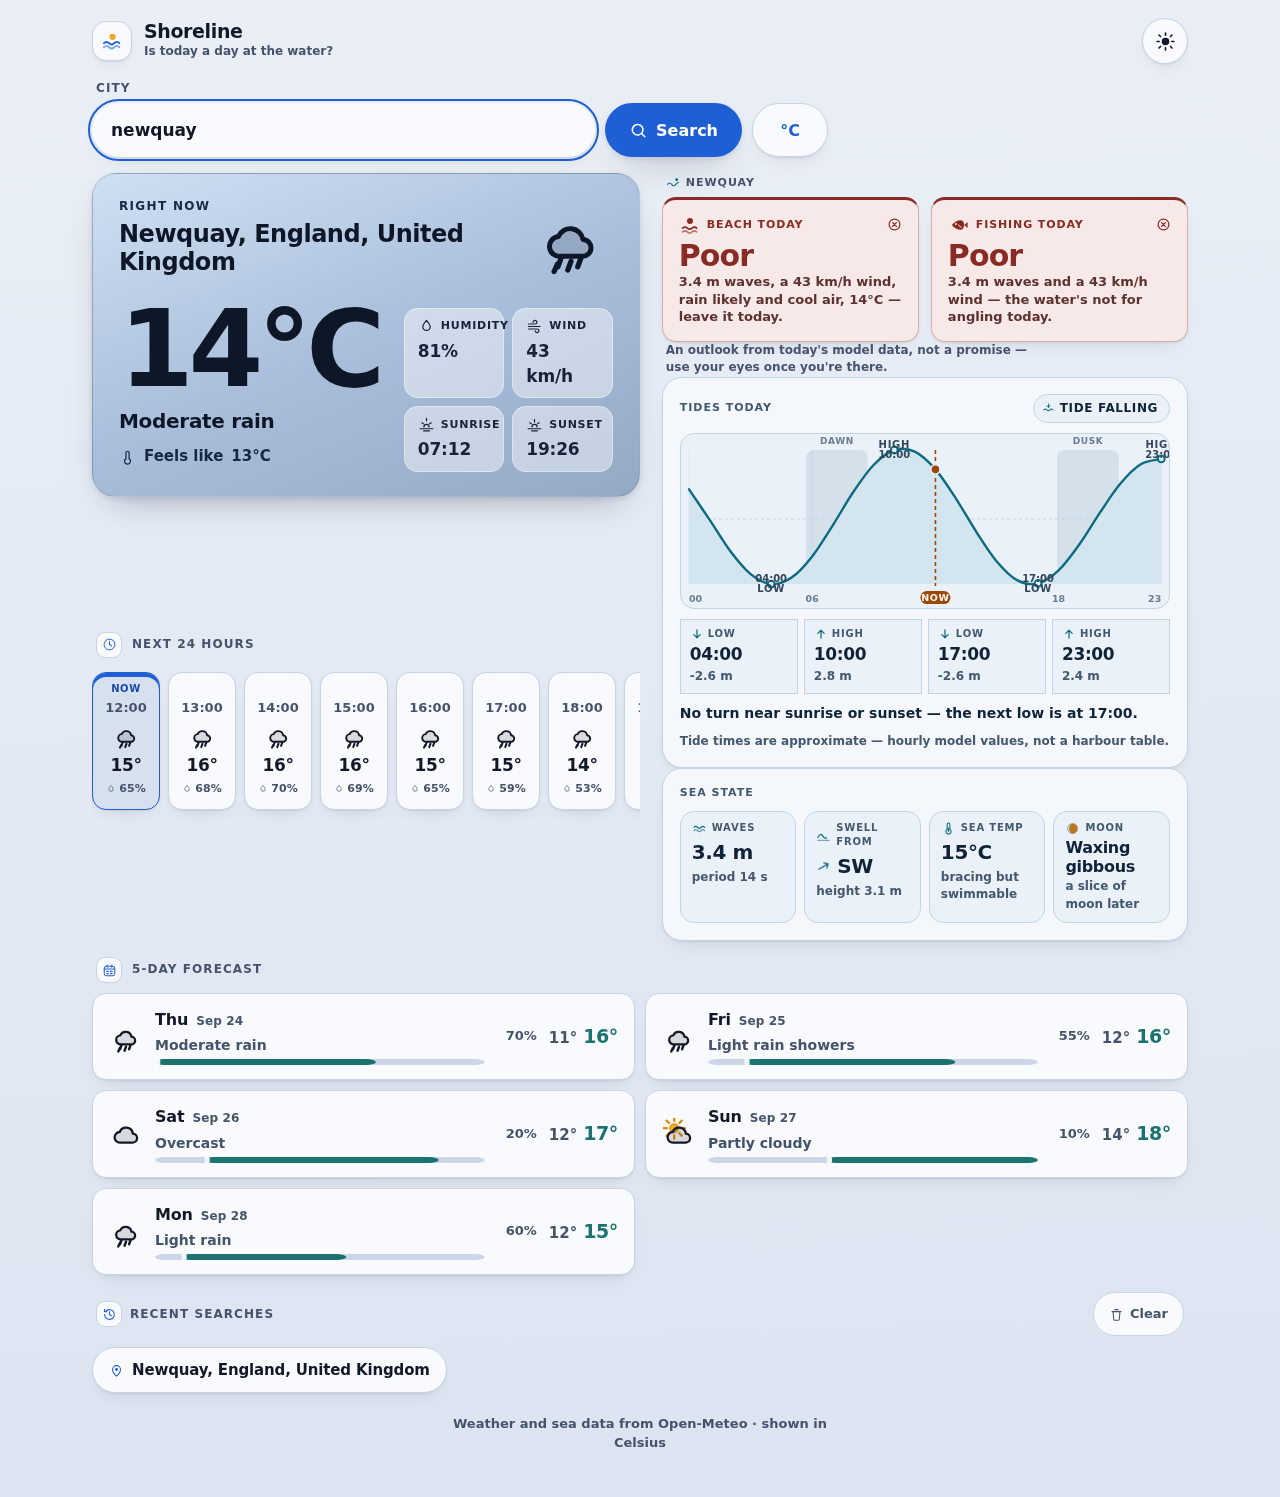
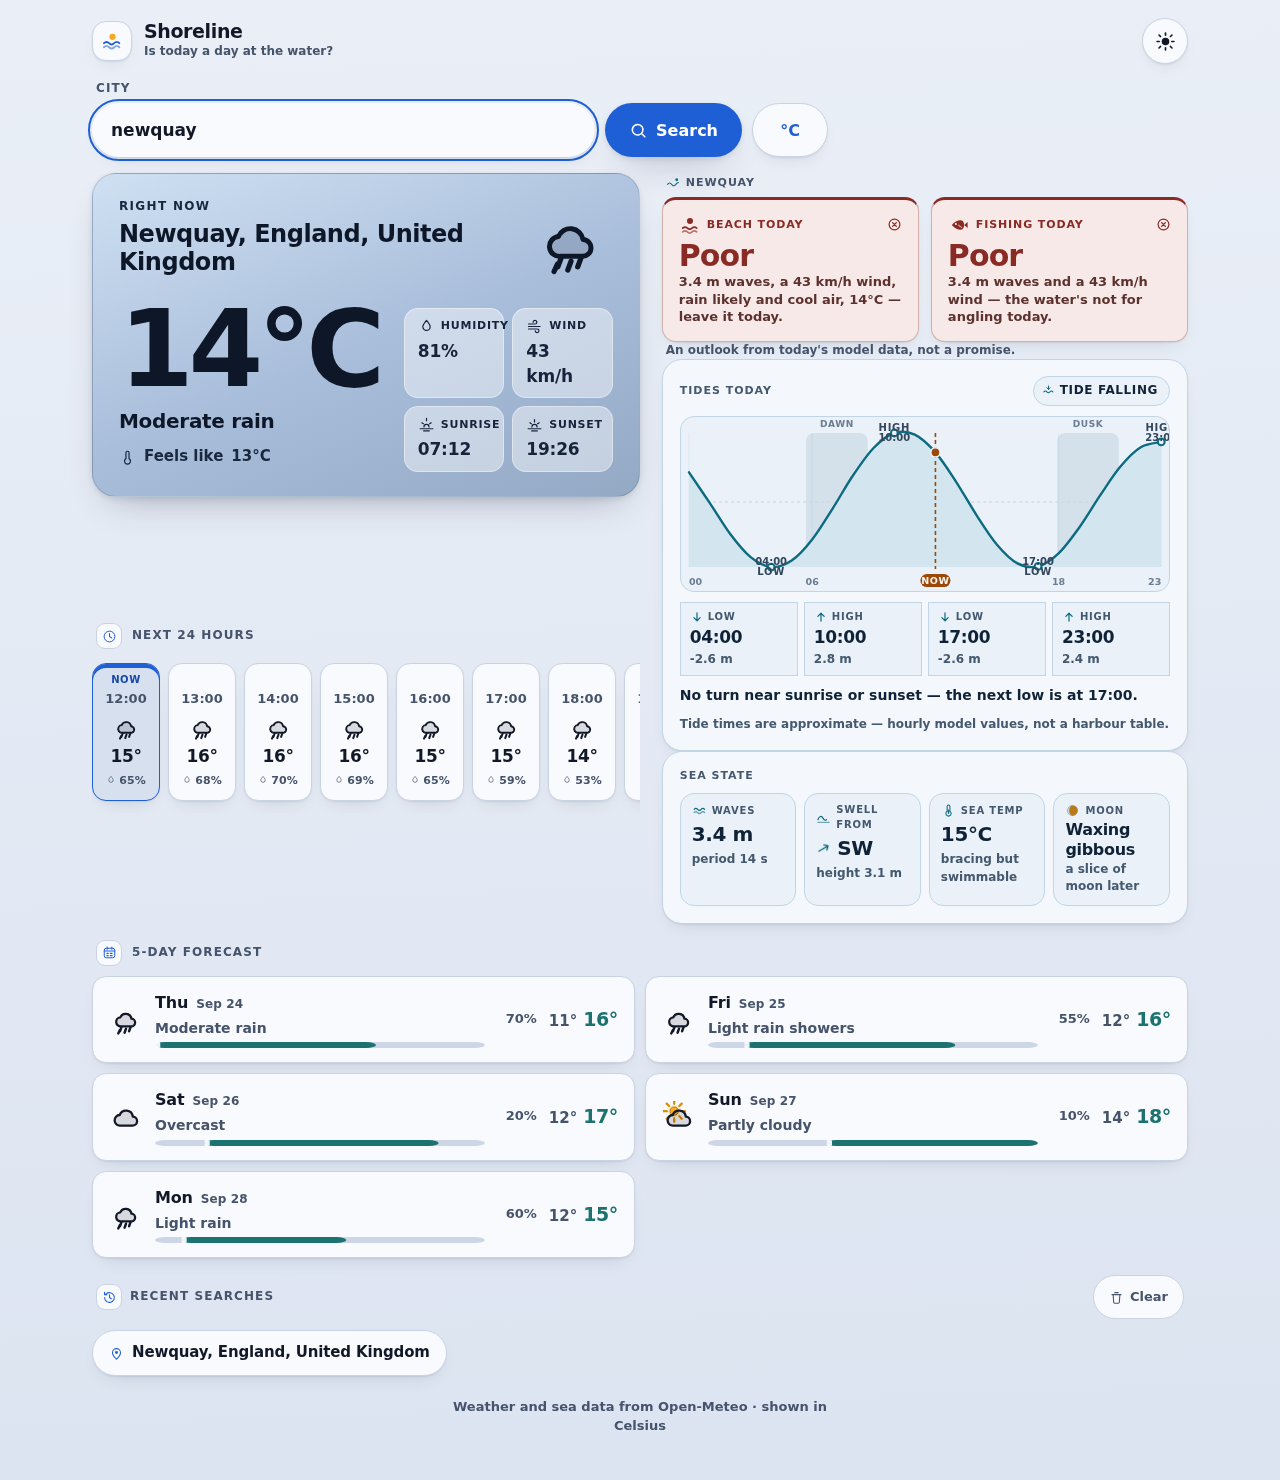
Worst case at the fold: a fixture the rules can actually produce
The fold budget was only ever asserted against three fixture places whose
reasons happen to be short. Honolulu live showed what the rules can
produce: four tide turns plus a reason naming several factors. Pushed
further — a Fair/Fair place naming all five beach factors — the second
card reaches six lines and the chart was cut by 6px.

- stub.js gains pointArena, that worst case (four turns, both reasons
  holding every factor), and water-lint runs it by default, so the tallest
  page the rules can generate is what the fold is measured against.
- The coastal chart drops to 128px and the disclaimer loses a clause that
  only repeated the first one; both were measured, not guessed (the
  original disclaimer is 588px wide at 12px and wrapped to two lines at
  390px).
- water-lint's reason-line ceiling moves to 6, which is what "name every
  held-back factor" costs at 390px; past that is a reason nobody reads.

diff --git a/audit/stub.js b/audit/stub.js
@@ -13,6 +13,8 @@ const MATCHES = {
   cairo: { name: 'Cairo', admin1: 'Cairo Governorate', country: 'Egypt', lat: 30.0601, lon: 31.2466 },
   honolulu: { name: 'Honolulu', admin1: 'Hawaii', country: 'United States', lat: 21.30694, lon: -157.85834 },
   tokyo: { name: 'Tokyo', admin1: 'Tokyo', country: 'Japan', lat: 35.6895, lon: 139.69171 },
+  flatbay: { name: 'Flatbay', admin1: 'Nowhere', country: 'Land', lat: 54.0, lon: -5.0 },
+  pointArena: { name: 'Point Arena', admin1: 'California', country: 'United States', lat: 39.0, lon: -123.0 },
 };
 
 const CITIES = {
@@ -30,6 +32,7 @@ const CITIES = {
   tokyo: { lat: 35.6895, lon: 139.69171, current: { temperature_2m: 18.4, relative_humidity_2m: 82, weather_code: 63, wind_speed_10m: 13.2 }, daily: { weather_code: [63, 61, 3, 2, 0], temperature_2m_max: [19.2, 20.4, 22.1, 23.6, 24.8], temperature_2m_min: [14.1, 14.9, 15.2, 14.4, 13.6] } },
   cascais: { lat: 38.7, lon: -9.423, current: { temperature_2m: 24.6, relative_humidity_2m: 58, weather_code: 1, wind_speed_10m: 16.4 }, daily: { weather_code: [1, 2, 0, 1, 3], temperature_2m_max: [25.8, 24.3, 26.1, 23.6, 22.4], temperature_2m_min: [17.4, 18.1, 17.6, 18.9, 16.4] } },
   newquay: { lat: 50.414, lon: -5.061, current: { temperature_2m: 14.2, relative_humidity_2m: 81, weather_code: 63, wind_speed_10m: 42.6 }, daily: { weather_code: [63, 80, 3, 2, 61], temperature_2m_max: [15.8, 16.3, 17.1, 18.0, 15.2], temperature_2m_min: [11.4, 12.1, 12.4, 13.8, 11.9] } },
+  pointArena: { lat: 39.0, lon: -123.0, current: { temperature_2m: 17.4, relative_humidity_2m: 84, weather_code: 51, wind_speed_10m: 26.2 }, daily: { weather_code: [51, 45, 2, 1, 0], temperature_2m_max: [20.4, 21.1, 19.6, 18.9, 20.2], temperature_2m_min: [14.1, 14.8, 13.6, 12.9, 13.7] } },
   flatbay: { lat: 54.0, lon: -5.0, current: { temperature_2m: 11.2, relative_humidity_2m: 93, weather_code: 45, wind_speed_10m: 9.4 }, daily: { weather_code: [45, 3, 2, 51, 1], temperature_2m_max: [13.4, 14.9, 16.1, 15.0, 12.2], temperature_2m_min: [8.6, 9.2, 10.7, 11.4, 7.9] } },
   cairo: { lat: 30.0601, lon: 31.2466, current: { temperature_2m: 36.8, relative_humidity_2m: 19, weather_code: 0, wind_speed_10m: 7.8 }, daily: { weather_code: [0, 0, 0, 1, 2], temperature_2m_max: [38.4, 39.1, 37.6, 36.2, 35.0], temperature_2m_min: [24.7, 25.3, 24.1, 23.6, 22.9] } },
 };
@@ -50,6 +53,11 @@ const MARINE = {
   lisbon: { current: { wave_height: 1.2, wave_direction: 300, wave_period: 11.6, swell_wave_height: 1.1, swell_wave_direction: 315, swell_wave_period: 12.3, sea_surface_temperature: 19.4 }, tide: { amplitude: 1.2, highAt: 3.7, skew: 0.1 } },
   sydney: { current: { wave_height: 1.8, wave_direction: 150, wave_period: 10.2, swell_wave_height: 1.6, swell_wave_direction: 135, swell_wave_period: 11.0, sea_surface_temperature: 18.1 }, tide: { amplitude: 0.8, highAt: 5.1, skew: 0.08 } },
   honolulu: { current: { wave_height: 0.9, wave_direction: 62, wave_period: 12.8, swell_wave_height: 0.8, swell_wave_direction: 68, swell_wave_period: 15.2, sea_surface_temperature: 26.4 }, tide: { amplitude: 0.66, highAt: 8.2, skew: 0.05 } },
+  /* The worst case the fixtures never produce: four tide turns *and* both verdict
+     reasons holding every factor at once (Fair/Fair naming waves, wind, rain, cloud,
+     cool, and waves, wind, tide). Honolulu hit this live and pushed the tide chart
+     33px below the phone fold, so the fold budget is now asserted against it. */
+  pointArena: { current: { wave_height: 1.9, wave_direction: 250, wave_period: 12.0, swell_wave_height: 2.0, swell_wave_direction: 255, swell_wave_period: 13.0, sea_surface_temperature: 17.0 }, tide: { amplitude: 1.2, highAt: 3.7, skew: 0.1 } },
   // a flat sea: no turns at all, an edge case the live API really does produce
   flatbay: { current: { wave_height: 0.2, wave_direction: 20, wave_period: 3.1, swell_wave_height: 0.2, swell_wave_direction: 25, swell_wave_period: 4.0, sea_surface_temperature: 9.2 }, tide: { amplitude: 0.0, highAt: 0, skew: 0 } },
 };
@@ -100,6 +108,7 @@ const COASTAL_MATCHES = {
   cascais: { name: 'Cascais', admin1: 'Lisbon District', country: 'Portugal', lat: 38.7, lon: -9.423 },
   newquay: { name: 'Newquay', admin1: 'England', country: 'United Kingdom', lat: 50.414, lon: -5.061 },
   flatbay: { name: 'Flatbay', admin1: 'Nowhere', country: 'Land', lat: 54.0, lon: -5.0 },
+  pointArena: { name: 'Point Arena', admin1: 'California', country: 'United States', lat: 39.0, lon: -123.0 },
 };
 
 const fullLabel = (key) => {

diff --git a/audit/water-lint.js b/audit/water-lint.js
@@ -6,10 +6,12 @@
    peeking at the fold to say "scroll me".
    Run: node audit/water-lint.js */
 const { chromium } = require('@playwright/test');
-const { installStub, setTheme, searchMapFor, typeCity } = require('./stub.js');
+const { installStub, setTheme, searchMapFor, MATCHES, typeCity } = require('./stub.js');
 
 const BASE = process.env.APP_URL || 'http://localhost:3000';
-const PLACES = (process.env.WATER_PLACES || 'cascais,newquay,flatbay').split(',');
+/* pointArena is the synthetic worst case: four tide turns and both reasons naming
+   every factor at once — the tallest the rules can produce. */
+const PLACES = (process.env.WATER_PLACES || 'cascais,newquay,flatbay,pointArena').split(',');
 const VIEWPORTS = (process.env.WATER_VIEWPORTS || '390x844,1280x800')
   .split(',')
   .map((s) => {
@@ -78,17 +80,20 @@ const MEASURE = `(() => {
 
   // the fold: what is visible at scroll 0 on a phone, and does the next block peek?
   const hourly = q('[data-testid="hourly"]');
-  out.waterEndsAt = Math.round(box(q('[data-testid="water"]')).y + box(q('[data-testid="water"]')).h);
+  const waterEl = q('[data-testid="water"]');
+  const waterBox = waterEl ? box(waterEl) : { y: 0, h: 0 };
+  out.waterEndsAt = Math.round(waterBox.y + waterBox.h);
   out.hourlyTop = hourly && !hourly.hidden ? Math.round(box(hourly).y) : null;
   out.fold = innerHeight;
   out.peek = out.hourlyTop !== null ? Math.max(0, innerHeight - out.hourlyTop) : 0;
   out.waterShareOfFold = Math.round(
-    ((Math.min(innerHeight, out.waterEndsAt) - box(q('[data-testid="water"]')).y) / innerHeight) * 100,
+    ((Math.min(innerHeight, out.waterEndsAt) - waterBox.y) / innerHeight) * 100,
   ) + '%';
   /* The chart is the answer to "when", and its time labels and "now" pill sit at the
      bottom of it. A chart cut by the fold loses exactly the part that carries the
      answer, so on a coastal first screen the whole box must be above the fold. */
-  const chartBox = box(q('[data-testid="tide-chart"]'));
+  const chartEl = q('[data-testid="tide-chart"]');
+  const chartBox = chartEl ? box(chartEl) : null;
   out.chartCut = chartBox && chartBox.w > 0 ? Math.round(chartBox.y + chartBox.h - innerHeight) : null;
 
   /* A good fold cuts through something: it says "there is more below" without anyone
@@ -125,7 +130,7 @@ const near = (a, b, tol = 1.5) => Math.abs(a - b) <= tol;
         await installStub(page, { search: searchMapFor([place, 'cascais']) });
         await page.goto(BASE + '/', { waitUntil: 'domcontentloaded' });
         await setTheme(page, theme);
-        await typeCity(page, place);
+        await typeCity(page, MATCHES[place] ? MATCHES[place].name : place);
         await page.waitForTimeout(650);
         const m = await page.evaluate(MEASURE);
         const tag = `${place}/${theme}/${vp.tag}`;
@@ -143,7 +148,9 @@ const near = (a, b, tol = 1.5) => Math.abs(a - b) <= tol;
         if (m.wordPx[0] !== m.wordPx[1]) problems.push(`${tag}: verdict words are different sizes`);
         if (m.reasonPx[0] !== m.reasonPx[1]) problems.push(`${tag}: verdict reasons are different sizes`);
         if (m.reasonPx[0] < 12) problems.push(`${tag}: verdict reason is ${m.reasonPx[0]}px, too small to read outdoors`);
-        if (m.reasonLines.some((n) => n > 5)) problems.push(`${tag}: a verdict reason wraps to ${Math.max(...m.reasonLines)} lines`);
+        // a Fair verdict naming all five factors is six lines at 390px — that's the
+        // rules talking, not sloppy copy; anything past it is a reason nobody will read.
+        if (m.reasonLines.some((n) => n > 6)) problems.push(`${tag}: a verdict reason wraps to ${Math.max(...m.reasonLines)} lines`);
         if (m.reasonChars.some((n) => n > 120)) problems.push(`${tag}: a verdict reason is ${Math.max(...m.reasonChars)} characters`);
         if (m.wordPx[0] < m.reasonPx[0] * 1.7) problems.push(`${tag}: the verdict word only leads the reason ${((m.wordPx[0] / m.reasonPx[0]) * 100).toFixed(0)}%`);
 

diff --git a/water.js b/water.js
@@ -562,7 +562,7 @@
         ${ratingCard("beach", "Beach today", v.beach, "beach")}
         ${ratingCard("fishing", "Fishing today", v.fishing, "fish")}
       </div>
-      <p class="water__disclaimer">An outlook from today's model data, not a promise — use your eyes once you're there.</p>
+      <p class="water__disclaimer">An outlook from today's model data, not a promise.</p>
       <section class="water__panel tide">
         <p class="tide__head">
           <span class="water__subtitle">Tides today</span>

diff --git a/styles.css b/styles.css
@@ -948,6 +948,11 @@ html[data-theme="dark"] .hero[data-scene$="day"] .metric {
   body.is-coastal .water__panel {
     padding: 12px 13px 13px;
   }
+  /* Twelve pixels shorter than the default chart, so the worst honest reason (five
+     named factors = six lines at 390px) still leaves the chart whole above the fold. */
+  body.is-coastal .tide-chart {
+    --tide-chart-height: 128px;
+  }
 }
 
 /* .hero__reading is a plain column on a phone; the desktop rules put the
